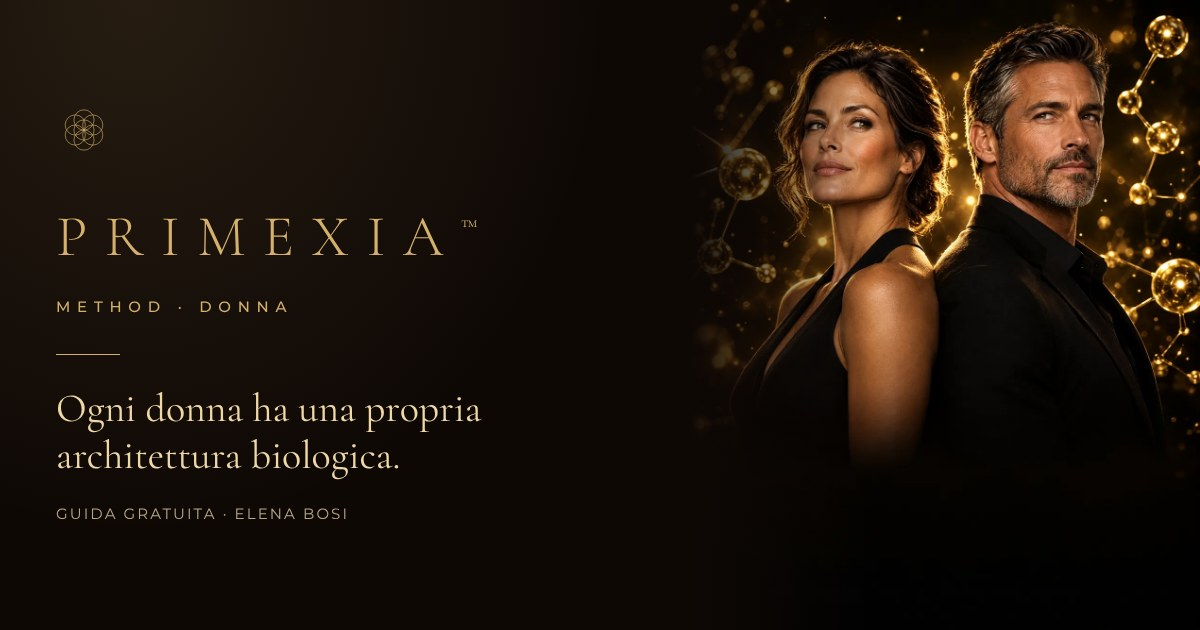
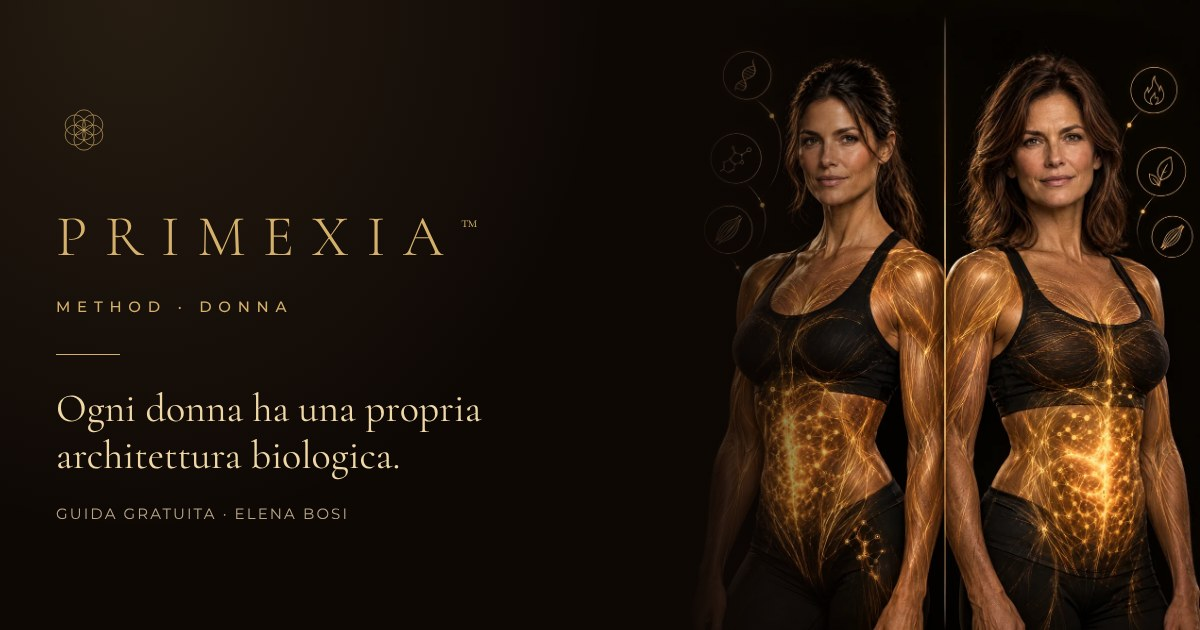
Correzioni Elena 04/11: nome studio, marchio UIBM, niente Canton Ticino, immagini per genere, Amazon
- Studio in Lifespan Nutrition – Longevity Hub ovunque (pagine, footer, dati strutturati, llms.txt)
- PRIMEXIA™ · Marchio depositato presso UIBM · Domanda n. 302026000062725 (via EUIPO e marchio registrato)
- Rimosso ogni riferimento a Canton Ticino
- Landing Donna solo immagini femminili, Uomo solo maschili (nuove immagini Higgsfield, anche OG)
- Pulsante Acquista su Amazon sotto ogni libro, link diretti verificati, nuova scheda

Claude-Session: https://claude.ai/code/session_01Xu6D3MVP8gnw5stQYVPhoB

Changed region(s): [[0.5858, 0.0, 1.0, 1.0], [0.6167, 0.0302, 0.6475, 0.0603]]

diff --git a/src/components/Landing.tsx b/src/components/Landing.tsx
@@ -7,9 +7,9 @@ import SiteFooter from "./SiteFooter";
 import { Flower, GuideCover } from "./Decor";
 
 const BOOKS = [
-  { src: "/img/libro-nutrimento-eterno.webp", title: "Il Nutrimento Eterno", sub: "Dal fuoco primordiale alla longevità" },
-  { src: "/img/libro-primordialita-molecolare.webp", title: "La primordialità molecolare", sub: "Riscoprire la radice biologica del nutrimento" },
-  { src: "/img/libro-orientamento-metabolico.webp", title: "Orientamento Metabolico", sub: "Scritti di biologia quotidiana" },
+  { src: "/img/libro-nutrimento-eterno.webp", title: "Il Nutrimento Eterno", sub: "Dal fuoco primordiale alla longevità", url: "https://www.amazon.it/dp/B0GW7BWWWF" },
+  { src: "/img/libro-primordialita-molecolare.webp", title: "La primordialità molecolare", sub: "Riscoprire la radice biologica del nutrimento", url: "https://www.amazon.it/dp/B0G5GSXT8G" },
+  { src: "/img/libro-orientamento-metabolico.webp", title: "Orientamento Metabolico", sub: "Scritti di biologia quotidiana", url: "https://amzn.eu/d/0dGM8c9j" },
 ];
 
 function SectionHead({ label, title, className = "" }: { label: string; title: string; className?: string }) {
@@ -32,7 +32,7 @@ export default function Landing({ content: c }: { content: LandingContent }) {
 
       {/* ---------- Testata (stile pagine PRIMEXIA) ---------- */}
       <header className="bg-bg-deep px-4 pt-6 pb-6 text-center sm:px-6 sm:pt-7 sm:pb-8">
-        <p className="kicker hidden sm:block">Lifespan Nutrition – Longevity Hub · Verona</p>
+        <p className="kicker hidden sm:block">Studio in Lifespan Nutrition – Longevity Hub · Verona</p>
         <div className="relative mx-auto size-[56px] sm:mt-5 sm:size-[68px] overflow-hidden rounded-full border border-[var(--gold-border)]">
           <Image src="/img/elena-bosi-volto.webp" alt="Elena Bosi" fill sizes="68px" className="object-cover" priority />
         </div>
@@ -118,8 +118,8 @@ export default function Landing({ content: c }: { content: LandingContent }) {
           <figure className="reveal relative mx-auto mt-16 max-w-[560px] overflow-hidden border border-[var(--gold-border)]">
             <div className="relative aspect-[4/5]">
               <Image
-                src="/img/risposte-biologiche.webp"
-                alt="Una donna e un uomo affiancati, con una trama dorata che evidenzia muscoli e metabolismo"
+                src={`/img/${c.variant}-risposte.webp`}
+                alt={c.variant === "donna" ? "Due donne affiancate, con una trama dorata che evidenzia muscoli e metabolismo" : "Due uomini affiancati, con una trama dorata che evidenzia muscoli e metabolismo"}
                 fill
                 sizes="(max-width: 640px) 100vw, 560px"
                 className="object-cover"
@@ -214,8 +214,8 @@ export default function Landing({ content: c }: { content: LandingContent }) {
           <figure className="reveal relative mx-auto mt-16 max-w-[560px] overflow-hidden border border-[var(--gold-border)]">
             <div className="relative aspect-square">
               <Image
-                src="/img/architettura-nutrizionale.webp"
-                alt="Una donna e un uomo schiena contro schiena tra molecole dorate"
+                src={`/img/${c.variant}-architettura.webp`}
+                alt={c.variant === "donna" ? "Una donna tra molecole dorate" : "Un uomo tra molecole dorate"}
                 fill
                 sizes="(max-width: 640px) 100vw, 560px"
                 className="object-cover object-top"
@@ -287,7 +287,7 @@ export default function Landing({ content: c }: { content: LandingContent }) {
                 <br />
                 Lifespan Nutrition Specialist
                 <br />
-                Lifespan Nutrition – Longevity Hub · Verona
+                Studio in Lifespan Nutrition – Longevity Hub · Verona
               </p>
               {c.bio.paragraphs.map((p) => (
                 <p key={p} className="mt-5 text-[1.08rem] text-body">
@@ -295,7 +295,7 @@ export default function Landing({ content: c }: { content: LandingContent }) {
                 </p>
               ))}
               <p className="mt-5 text-[1.08rem] text-body">
-                Il metodo è un marchio registrato e viene seguito con supervisione medica per gli aspetti di competenza.
+                Il marchio PRIMEXIA™ è depositato presso UIBM e il metodo viene seguito con supervisione medica per gli aspetti di competenza.
               </p>
             </div>
           </div>
@@ -310,7 +310,16 @@ export default function Landing({ content: c }: { content: LandingContent }) {
               <div className="text-center sm:text-left">
                 <p className="font-serif text-[1.7rem] leading-tight text-gold-lt">{BOOKS[0].title}</p>
                 <p className="mt-1 text-[1rem] text-muted italic">Dal fuoco primordiale alla longevità</p>
-                <blockquote className="mt-6 border-l-0 sm:border-l sm:border-[var(--gold-border)] sm:pl-5">
+                <a
+                  href={BOOKS[0].url}
+                  target="_blank"
+                  rel="noopener noreferrer"
+                  className="btn-line mt-4 border border-[var(--gold-border)] !px-5 !text-gold hover:!text-gold-lt"
+                  aria-label={`Acquista ${BOOKS[0].title} su Amazon (si apre in una nuova scheda)`}
+                >
+                  Acquista su Amazon ↗
+                </a>
+                                <blockquote className="mt-6 border-l-0 sm:border-l sm:border-[var(--gold-border)] sm:pl-5">
                   <p className="font-serif text-[1.25rem] leading-relaxed text-cream italic">
                     «Questo libro non offre scorciatoie, né illusioni. Offre qualcosa di più raro: una riconnessione.»
                   </p>
@@ -326,6 +335,15 @@ export default function Landing({ content: c }: { content: LandingContent }) {
                   </div>
                   <p className="mt-3 font-serif text-[0.98rem] leading-tight text-cream">{b.title}</p>
                   <p className="mt-1 text-[0.85rem] text-muted italic">{b.sub}</p>
+                  <a
+                    href={b.url}
+                    target="_blank"
+                    rel="noopener noreferrer"
+                    className="btn-line mt-2 border border-[var(--gold-border)] !px-3 !text-[0.68rem] !text-gold hover:!text-gold-lt"
+                    aria-label={`Acquista ${b.title} su Amazon (si apre in una nuova scheda)`}
+                  >
+                    Acquista su Amazon ↗
+                  </a>
                 </li>
               ))}
             </ul>

diff --git a/src/components/JsonLd.tsx b/src/components/JsonLd.tsx
@@ -38,7 +38,6 @@ export function baseGraph() {
       },
       areaServed: [
         { "@type": "Country", name: "Italia" },
-        { "@type": "AdministrativeArea", name: "Canton Ticino" },
       ],
       sameAs: ORG.sameAs,
       brand: { "@id": brandId },
@@ -49,7 +48,7 @@ export function baseGraph() {
       name: "Elena Bosi",
       jobTitle: "Psychosomatic Nutrition Counselor · Lifespan Nutrition Specialist",
       description:
-        "Fondatrice di PRIMEXIA™ METHOD e di Lifespan Nutrition – Longevity Hub a Verona. Oltre 10 anni di esperienza in nutrizione, metabolismo e longevità.",
+        "Fondatrice di PRIMEXIA™ METHOD e di Studio in Lifespan Nutrition – Longevity Hub a Verona. Oltre 10 anni di esperienza in nutrizione, metabolismo e longevità.",
       worksFor: { "@id": orgId },
       image: `${SITE_URL}/img/elena-bosi.webp`,
       sameAs: ["https://www.linkedin.com/in/elena-bosi-b798421a3/", "https://www.instagram.com/studioinlifespan_nutrition/"],
@@ -67,7 +66,7 @@ export function baseGraph() {
       name: "PRIMEXIA™ METHOD",
       alternateName: ["PRIMEXIA Method", "PRIMEXIA"],
       description:
-        "Metodo proprietario di nutrizione molecolare di precisione in tre fasi (RESET, IGNITE, ANCHOR), con versioni dedicate per donna e per uomo. Marchio registrato EUIPO n. 302026000062725.",
+        "Metodo proprietario di nutrizione molecolare di precisione in tre fasi (RESET, IGNITE, ANCHOR), con versioni dedicate per donna e per uomo. Marchio depositato presso UIBM, domanda n. 302026000062725.",
       logo: `${SITE_URL}/apple-icon.png`,
     },
     {
@@ -136,7 +135,7 @@ export function LandingJsonLd({ c, path, title, description }: { c: LandingConte
             serviceType: "Percorso di nutrizione molecolare di precisione",
             provider: { "@id": orgId },
             brand: { "@id": brandId },
-            areaServed: ["Italia", "Canton Ticino"],
+            areaServed: ["Italia"],
             audience: { "@type": "PeopleAudience", audienceType: c.variant === "donna" ? "Donne adulte" : "Uomini adulti" },
             description: `Percorso di tre mesi in tre fasi (RESET, IGNITE, ANCHOR) con check metabolico, cinque consulenze con Elena Bosi e supervisione medica per gli aspetti di competenza. ${c.method.intro}`,
           },

diff --git a/src/components/SiteFooter.tsx b/src/components/SiteFooter.tsx
@@ -7,7 +7,7 @@ export default function SiteFooter() {
       <Flower size={30} className="mx-auto text-gold" />
       <p className="brand mt-4 text-lg">PRIMEXIA<span className="text-[0.55em] tracking-normal">™</span></p>
       <div className="mx-auto mt-6 max-w-2xl space-y-2 font-sans text-[0.75rem] leading-relaxed tracking-[0.14em] text-muted uppercase">
-        <p>Lifespan Nutrition – Longevity Hub · Via Madonna del Terraglio 13, 37129 Verona</p>
+        <p>Studio in Lifespan Nutrition – Longevity Hub · Via Madonna del Terraglio 13, 37129 Verona</p>
         <ul className="flex flex-col items-center sm:flex-row sm:justify-center sm:gap-4">
           <li>
             <a href="https://www.lifespannutrition.it" className="inline-flex min-h-11 items-center text-gold hover:text-gold-lt" target="_blank" rel="noopener">
@@ -26,7 +26,7 @@ export default function SiteFooter() {
           </li>
         </ul>
         <p>P.IVA 04541260230 · PEC studionutribosi@pec.it</p>
-        <p>PRIMEXIA™ è un marchio registrato · EUIPO n. 302026000062725 · UIBM 3 aprile 2026</p>
+        <p>PRIMEXIA™ · Marchio depositato presso UIBM · Domanda n. 302026000062725</p>
       </div>
       <p className="mx-auto mt-6 max-w-xl font-serif text-[0.98rem] leading-relaxed text-muted italic">
         PRIMEXIA™ Method è un percorso di nutrizione con finalità di educazione alimentare e regolazione dello stile di

diff --git a/src/content/uomo.ts b/src/content/uomo.ts
@@ -6,10 +6,10 @@ export const uomo: LandingContent = {
   metaDescription:
     "Metabolismo dopo i 40, grasso addominale, energia che cala: scarica la guida gratuita PRIMEXIA™ METHOD Uomo di Elena Bosi. Nutrizione molecolare di precisione.",
   hero: {
-    eyebrow: "Elena Bosi · Lifespan Nutrition – Longevity Hub · Verona",
+    eyebrow: "Elena Bosi · Studio in Lifespan Nutrition – Longevity Hub · Verona",
     tag: "Uomo",
     title: "Il tuo corpo ha una propria architettura biologica. La nutrizione deve rispettarla.",
-    meta: "Guida gratuita · Oltre 10 anni di esperienza · Verona e Canton Ticino",
+    meta: "Guida gratuita · Oltre 10 anni di esperienza",
     lead: "Dopo i 40 anni ormoni, muscolo e metabolismo cambiano. Non è una trasformazione inevitabile: è il momento giusto per rivedere abitudini e priorità.",
     bullets: [
       "Il girovita cresce anche quando il peso resta fermo",
@@ -105,7 +105,7 @@ export const uomo: LandingContent = {
       {
         label: "Prima settimana",
         name: "Thomas K.",
-        meta: "CEO · Lugano",
+        meta: "CEO",
         quote: "Sono abituato a misurare tutto: meno 3,4 kg. Non ho avuto la sensazione di fare sacrifici. Ho mangiato, lavorato, viaggiato.",
       },
       {

diff --git a/src/app/page.tsx b/src/app/page.tsx
@@ -13,7 +13,7 @@ export default function Home() {
     <div className="flex min-h-dvh flex-col bg-bg">
       <HomeJsonLd />
       <main className="flex-1 px-4 py-14 text-center sm:px-6 sm:py-20">
-        <p className="kicker">Lifespan Nutrition – Longevity Hub</p>
+        <p className="kicker">Studio in Lifespan Nutrition – Longevity Hub</p>
         <h1>
           <span className="brand mt-6 block text-[clamp(2.6rem,9vw,5rem)] leading-none">
             PRIMEXIA<span className="text-[0.4em] tracking-normal align-super">™</span>
@@ -27,7 +27,7 @@ export default function Home() {
         </p>
         <p className="mx-auto mt-5 max-w-[56ch] text-[1.02rem] text-body">
           PRIMEXIA™ METHOD è il metodo proprietario di nutrizione molecolare di precisione ideato da Elena Bosi, fondatrice di
-          Lifespan Nutrition – Longevity Hub a Verona. Tre fasi, RESET, IGNITE e ANCHOR, costruite sulla biologia della donna e
+          Studio in Lifespan Nutrition – Longevity Hub a Verona. Tre fasi, RESET, IGNITE e ANCHOR, costruite sulla biologia della donna e
           dell&apos;uomo. Scegli la guida gratuita adatta a te.
         </p>
         <div className="mx-auto mt-10 max-w-[520px] border border-[var(--gold-border)]">

diff --git a/src/app/layout.tsx b/src/app/layout.tsx
@@ -29,11 +29,11 @@ export const metadata: Metadata = {
     template: "%s | PRIMEXIA™ METHOD",
   },
   description:
-    "PRIMEXIA™ METHOD è il metodo di nutrizione molecolare di precisione di Elena Bosi, Lifespan Nutrition – Longevity Hub, Verona. Tre fasi RESET, IGNITE, ANCHOR. Guida gratuita per donna e per uomo.",
+    "PRIMEXIA™ METHOD è il metodo di nutrizione molecolare di precisione di Elena Bosi, Studio in Lifespan Nutrition – Longevity Hub, Verona. Tre fasi RESET, IGNITE, ANCHOR. Guida gratuita per donna e per uomo.",
   applicationName: "PRIMEXIA™ METHOD",
   authors: [{ name: "Elena Bosi", url: "https://www.lifespannutrition.it" }],
   creator: "Elena Bosi",
-  publisher: "Lifespan Nutrition – Longevity Hub",
+  publisher: "Studio in Lifespan Nutrition – Longevity Hub",
   keywords: [
     "PRIMEXIA",
     "PRIMEXIA Method",

diff --git a/src/components/Decor.tsx b/src/components/Decor.tsx
@@ -53,7 +53,7 @@ export function GuideCover({ variant }: { variant: Variant }) {
         aria-label={`Copertina della guida gratuita PRIMEXIA METHOD ${label}`}
       >
         <span className="absolute inset-y-0 left-0 w-[6px] bg-gradient-to-r from-[#3a2512] to-transparent" aria-hidden="true" />
-        <p className="font-sans text-[0.6rem] tracking-[0.2em] text-gold uppercase">Lifespan Nutrition – Longevity Hub</p>
+        <p className="font-sans text-[0.6rem] tracking-[0.2em] text-gold uppercase">Studio in Lifespan Nutrition – Longevity Hub</p>
         <Flower size={36} className="mx-auto mt-6 text-gold" />
         <p className="brand mt-5 text-[1.45rem]">PRIMEXIA<span className="text-[0.5em] tracking-normal">™</span></p>
         <p className="mt-0.5 font-serif text-[0.95rem] tracking-[0.18em] text-gold-lt">Method · {label}</p>

diff --git a/src/content/donna.ts b/src/content/donna.ts
@@ -6,10 +6,10 @@ export const donna: LandingContent = {
   metaDescription:
     "Gonfiore, menopausa, peso che non cede: scarica la guida gratuita PRIMEXIA™ METHOD Donna di Elena Bosi. Nutrizione molecolare di precisione, Verona.",
   hero: {
-    eyebrow: "Elena Bosi · Lifespan Nutrition – Longevity Hub · Verona",
+    eyebrow: "Elena Bosi · Studio in Lifespan Nutrition – Longevity Hub · Verona",
     tag: "Donna",
     title: "Ogni donna ha una propria architettura biologica. La nutrizione deve rispettarla.",
-    meta: "Guida gratuita · Oltre 10 anni di esperienza · Verona e Canton Ticino",
+    meta: "Guida gratuita · Oltre 10 anni di esperienza",
     lead: "Non è colpa tua. Il tuo corpo non ha smesso di funzionare. Ha cambiato linguaggio.",
     bullets: [
       "Senti che il tuo corpo non risponde più come prima",

diff --git a/src/app/grazie/page.tsx b/src/app/grazie/page.tsx
@@ -32,7 +32,7 @@ export default async function Grazie({ searchParams }: { searchParams: Promise<{
         className="px-4 pt-16 pb-16 text-center sm:px-6 sm:pt-20"
         style={{ background: "radial-gradient(ellipse at 50% 0%, rgb(201 169 110 / 0.08), transparent 60%), var(--bg)" }}
       >
-        <p className="kicker fade-up">Lifespan Nutrition – Longevity Hub · Verona</p>
+        <p className="kicker fade-up">Studio in Lifespan Nutrition – Longevity Hub · Verona</p>
         <p className="brand fade-up mt-8 text-[clamp(2.4rem,8vw,4.2rem)] leading-none" style={{ ["--i" as string]: 1 }}>
           PRIMEXIA<span className="text-[0.4em] tracking-normal align-super">™</span>
         </p>

diff --git a/src/lib/site.ts b/src/lib/site.ts
@@ -3,7 +3,7 @@ export const SITE_URL = (process.env.NEXT_PUBLIC_SITE_URL || "https://primexia.i
 
 export const BRAND = "PRIMEXIA™ METHOD";
 export const ORG = {
-  name: "Lifespan Nutrition – Longevity Hub",
+  name: "Studio in Lifespan Nutrition – Longevity Hub",
   founder: "Elena Bosi",
   vat: "04541260230",
   email: "studionutrizionebosi@gmail.com",
@@ -21,4 +21,4 @@ export const ORG = {
   ],
 };
 
-export const TRADEMARK = "Marchio registrato EUIPO n. 302026000062725 · UIBM 3 aprile 2026";
+export const TRADEMARK = "PRIMEXIA™ · Marchio depositato presso UIBM · Domanda n. 302026000062725";

diff --git a/src/app/privacy/page.tsx b/src/app/privacy/page.tsx
@@ -25,7 +25,7 @@ export default function Privacy() {
           <section>
             <h2>Titolare del trattamento</h2>
             <p>
-              Elena Bosi · Lifespan Nutrition – Longevity Hub, Via Madonna del Terraglio 13, 37129 Verona ·
+              Elena Bosi · Studio in Lifespan Nutrition – Longevity Hub, Via Madonna del Terraglio 13, 37129 Verona ·
               P.IVA 04541260230 · PEC studionutribosi@pec.it · Email:{" "}
               <a className="underline" href="mailto:studionutrizionebosi@gmail.com">
                 studionutrizionebosi@gmail.com

diff --git a/src/components/Questionnaire.tsx b/src/components/Questionnaire.tsx
@@ -412,7 +412,7 @@ export default function Questionnaire({ content }: { content: LandingContent }) 
                 {...register("marketing")}
               />
               <span>
-                Acconsento a ricevere comunicazioni e contenuti da Lifespan Nutrition – Longevity Hub.{" "}
+                Acconsento a ricevere comunicazioni e contenuti da Studio in Lifespan Nutrition – Longevity Hub.{" "}
                 <span className="text-muted">(facoltativo)</span>
               </span>
             </label>
